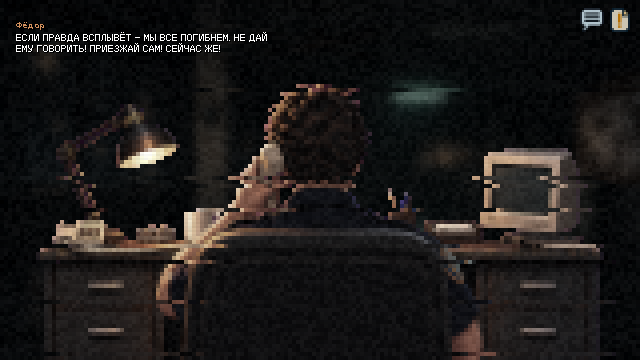
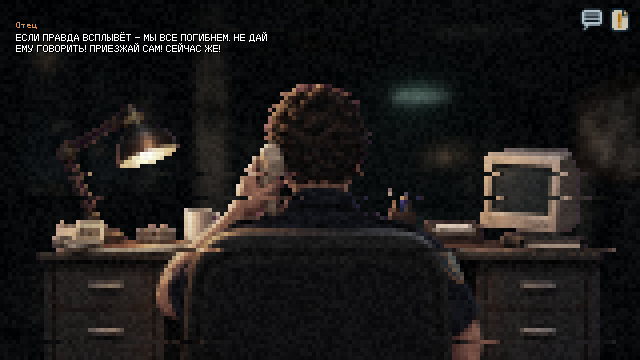
[Э3][s01] call: speaker 'Отец'; button 'Отправиться к отцу' after the last thought (incl. leave monologue)

diff --git a/docs/scenes/s01_call_spec.md b/docs/scenes/s01_call_spec.md
@@ -1,5 +1,5 @@
 # План реализации: звонок Фёдора (s01, часть 3)
-Статус: РЕАЛИЗОВАНО (черновые звуки), на оценке. Мелодия — horror-beneath-the-silence; кнопка — «Взять вещи и уйти» (временно). Тексты — дословно из материала пользователя (`s01_precinct_design.md`, «Звонок Фёдора»). Всё, помеченное [предложение], — идеи Claude.
+Статус: РЕАЛИЗОВАНО (черновые звуки), на оценке. Мелодия — horror-beneath-the-silence; кнопка — «Отправиться к отцу». Говорящий в трубке подписан «Отец». Монолог «Если они действительно замешаны…» — последняя мысль перед кнопкой. Тексты — дословно из материала пользователя (`s01_precinct_design.md`, «Звонок Фёдора»). Всё, помеченное [предложение], — идеи Claude.
 
 ## Поток
 1. Стол: клик «Ответить на звонок» → звонок обрывается, короткое затемнение → **кадр звонка** (`call_bg` + слой `call_alexei_desk`).
